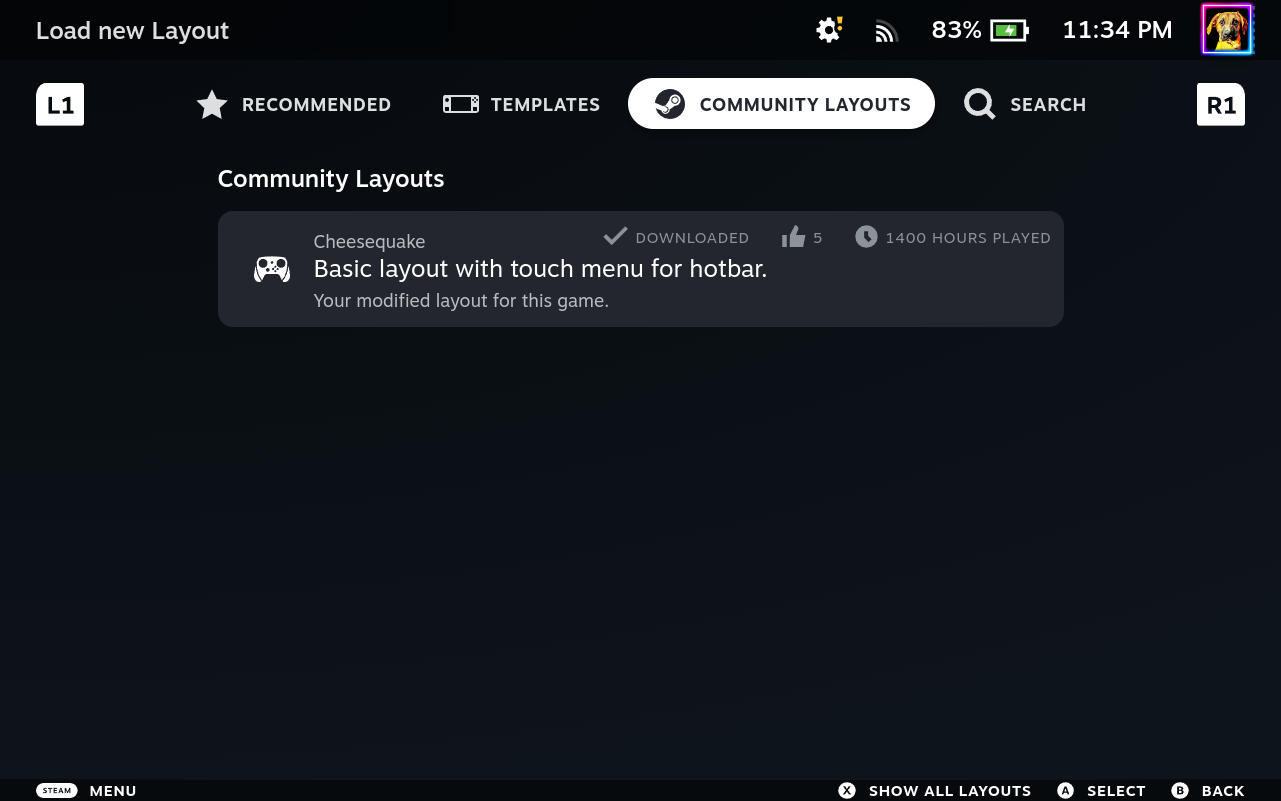
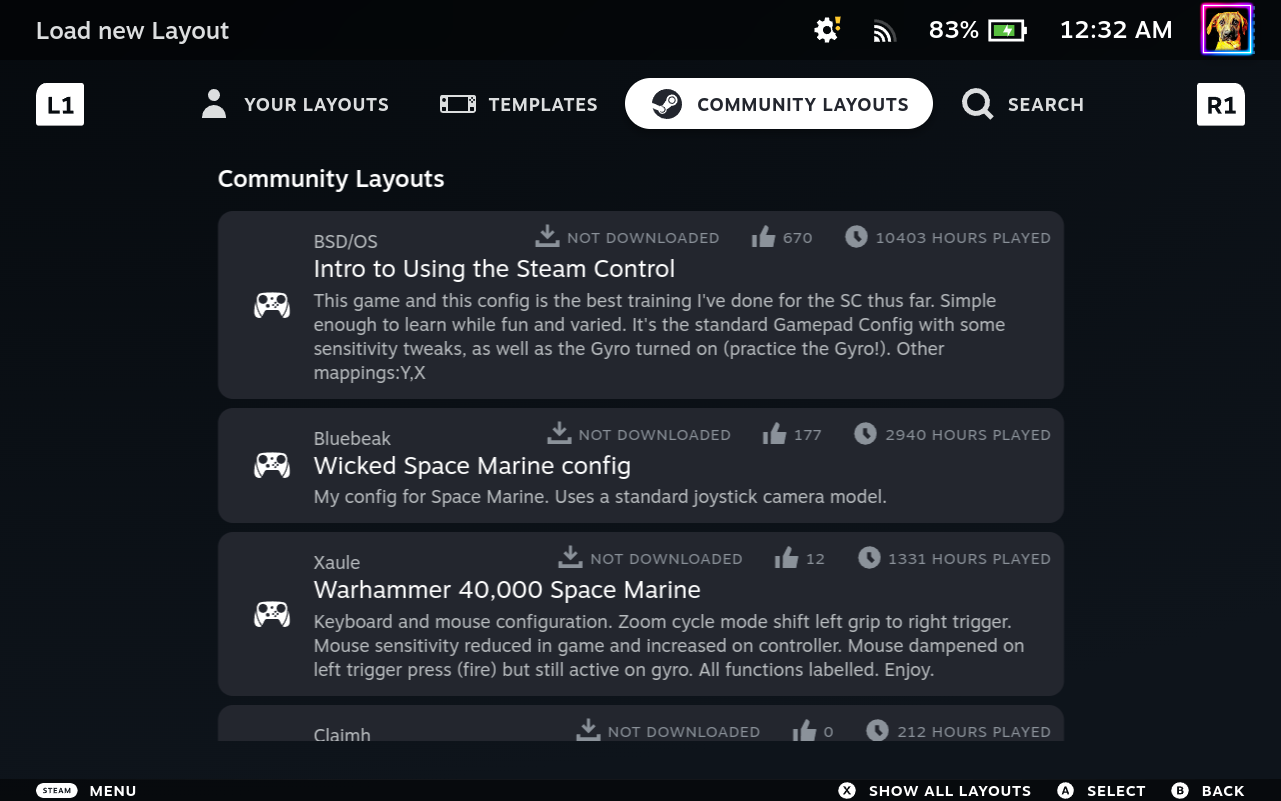
docs(readme): add Space Marine feature screenshots

diff --git a/tests/test_release_assets.py b/tests/test_release_assets.py
@@ -22,7 +22,7 @@ def _readme_asset_paths() -> list[Path]:
 def test_readme_images_are_committed_assets():
     paths = _readme_asset_paths()
 
-    assert len(paths) == 5
+    assert len(paths) == 7
     for relative_path in paths:
         assert relative_path.parts[0] == "assets"
         assert (ROOT / relative_path).is_file()